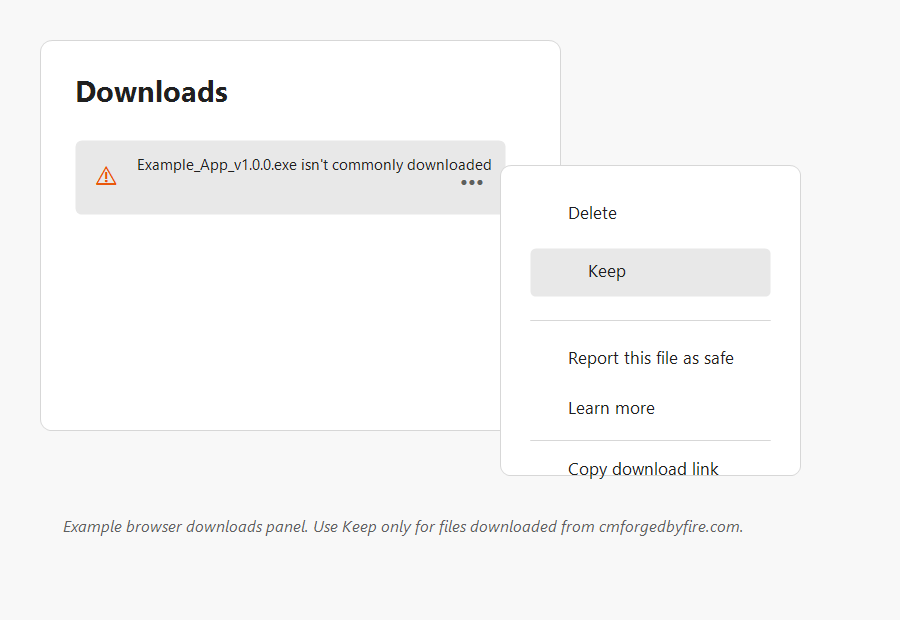
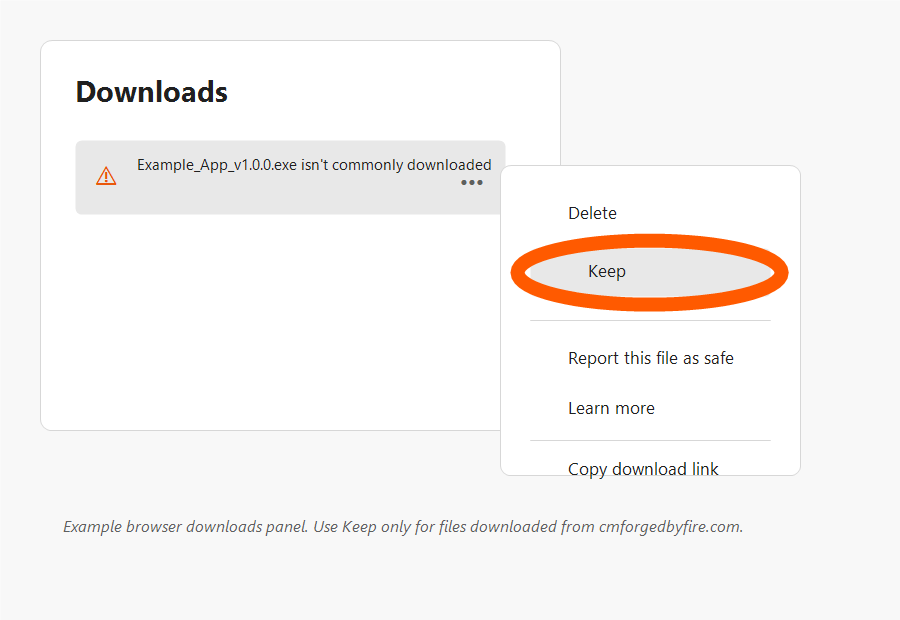
Add software screenshots and warning callouts

Changed region(s): [[0.56, 0.3677, 0.9022, 0.521]]

diff --git a/css/style.css b/css/style.css
@@ -403,6 +403,22 @@ main{display:block}
 .card-body{margin: 12px 0 0 0; color: var(--muted); line-height: 1.5}
 .card-actions{margin-top: 14px; display:flex; gap: 10px; flex-wrap:wrap}
 
+.software-preview{
+  margin-top: 14px;
+  border: 1px solid rgba(255,255,255,.08);
+  border-radius: 10px;
+  overflow: hidden;
+  background: #14120e;
+}
+
+.software-preview img{
+  width: 100%;
+  aspect-ratio: 16 / 9;
+  display: block;
+  object-fit: cover;
+  object-position: top left;
+}
+
 .grid{
   display:grid;
   grid-template-columns: repeat(3, minmax(0, 1fr));

diff --git a/software.html b/software.html
@@ -54,6 +54,9 @@
           <p class="card-body">
             A Windows utility for cleaning junk files, checking system health, managing startup items, and reviewing privacy-related settings in plain English.
           </p>
+          <div class="software-preview">
+            <img src="assets/screenshots/pcpurifier/pcp_system.png" alt="PC Purifier system information screen" loading="lazy" />
+          </div>
           <div class="card-actions">
             <a class="btn btn-primary" href="downloads/PCPurifierSetup_2.0.0.exe" download>Download Free</a>
             <a class="btn btn-ghost" href="pcpurifier.html">Details</a>
@@ -72,6 +75,9 @@
           <p class="card-body">
             A local Windows toolkit that audits a project folder, helps prepare docs and screenshots, and creates a clean release folder.
           </p>
+          <div class="software-preview">
+            <img src="assets/screenshots/forge/forge_screenshots.png" alt="FORGE screenshots module" loading="lazy" />
+          </div>
           <div class="card-actions">
             <a class="btn btn-primary" href="releases/FORGE_v1.0.1_Setup.exe" download>Download Free</a>
             <a class="btn btn-ghost" href="forge.html">Details</a>
@@ -90,6 +96,9 @@
           <p class="card-body">
             A free local-first generator for NPCs, taverns, towns, monsters, loot, dungeons, regions, names, shops, magic items, and encounters.
           </p>
+          <div class="software-preview">
+            <img src="assets/screenshots/master-generator/master-generator-main.png" alt="Master Generator NPC generator and campaign vault" loading="lazy" />
+          </div>
           <div class="card-actions">
             <a class="btn btn-primary" href="https://github.com/cmforgedbyfire/cmforgedbyfire.com/releases/download/master-generator-v1.0.0/MasterGenerator_v1.0.0.exe">Launch Free</a>
             <a class="btn btn-ghost" href="master-generator.html">Details</a>